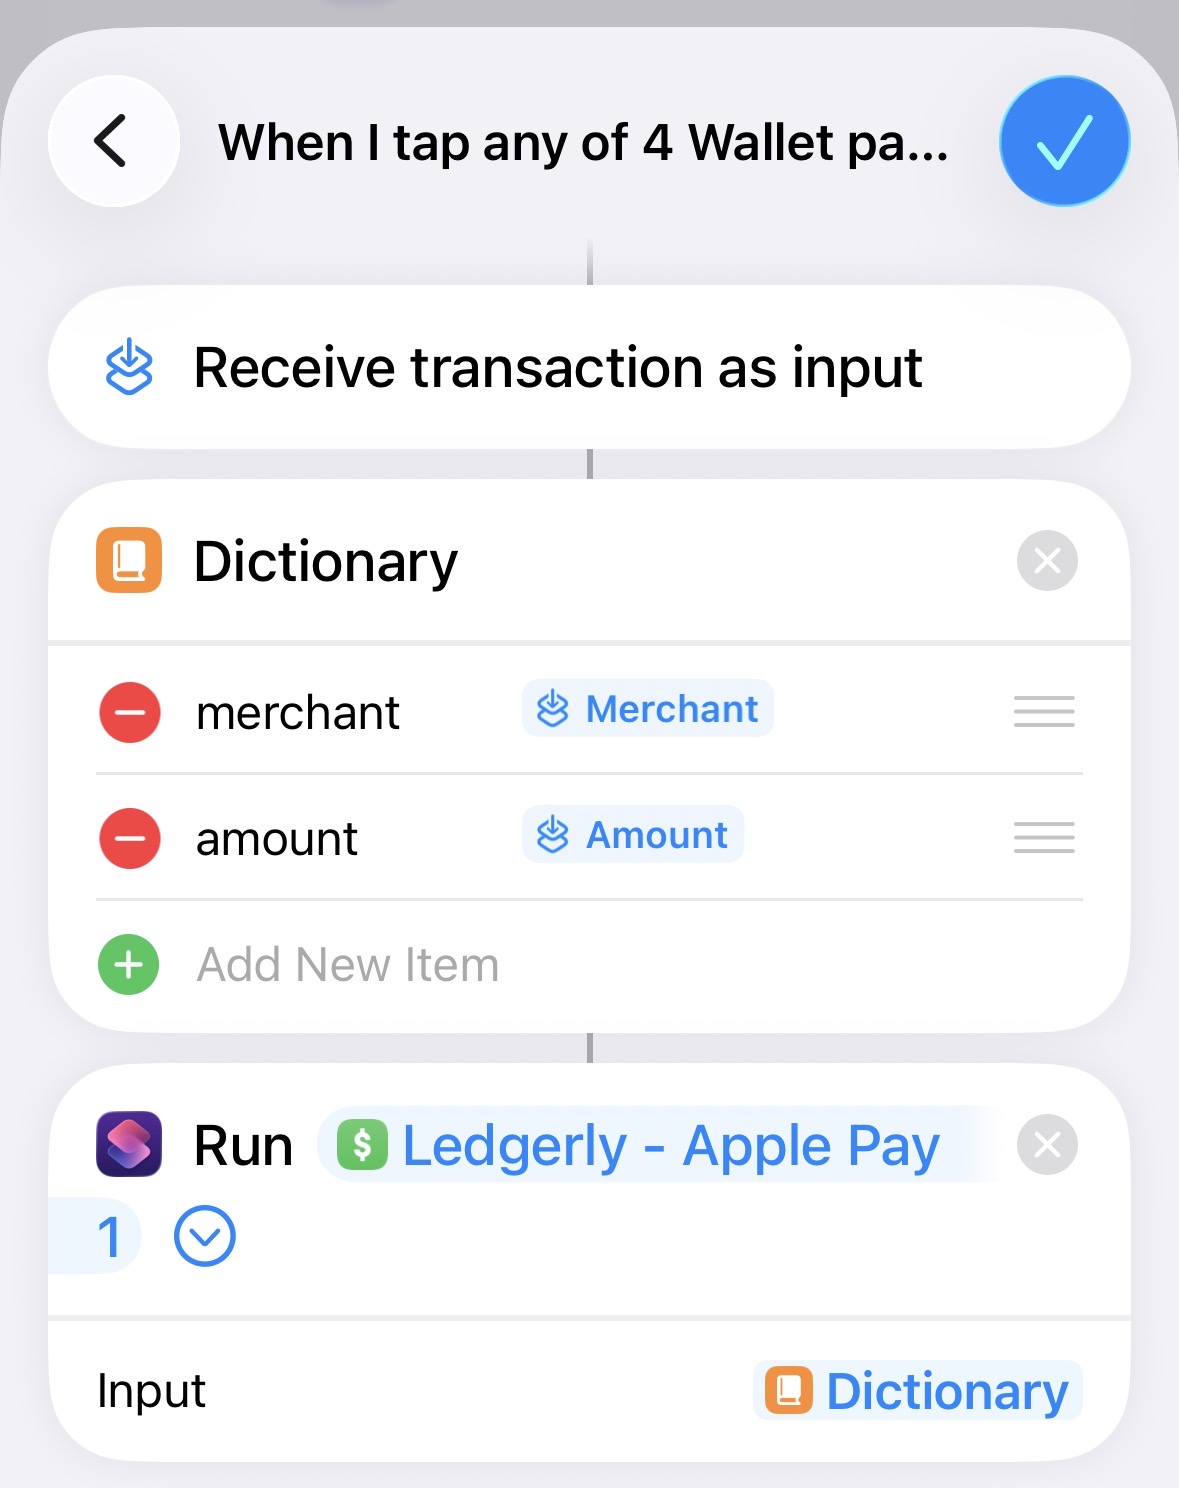
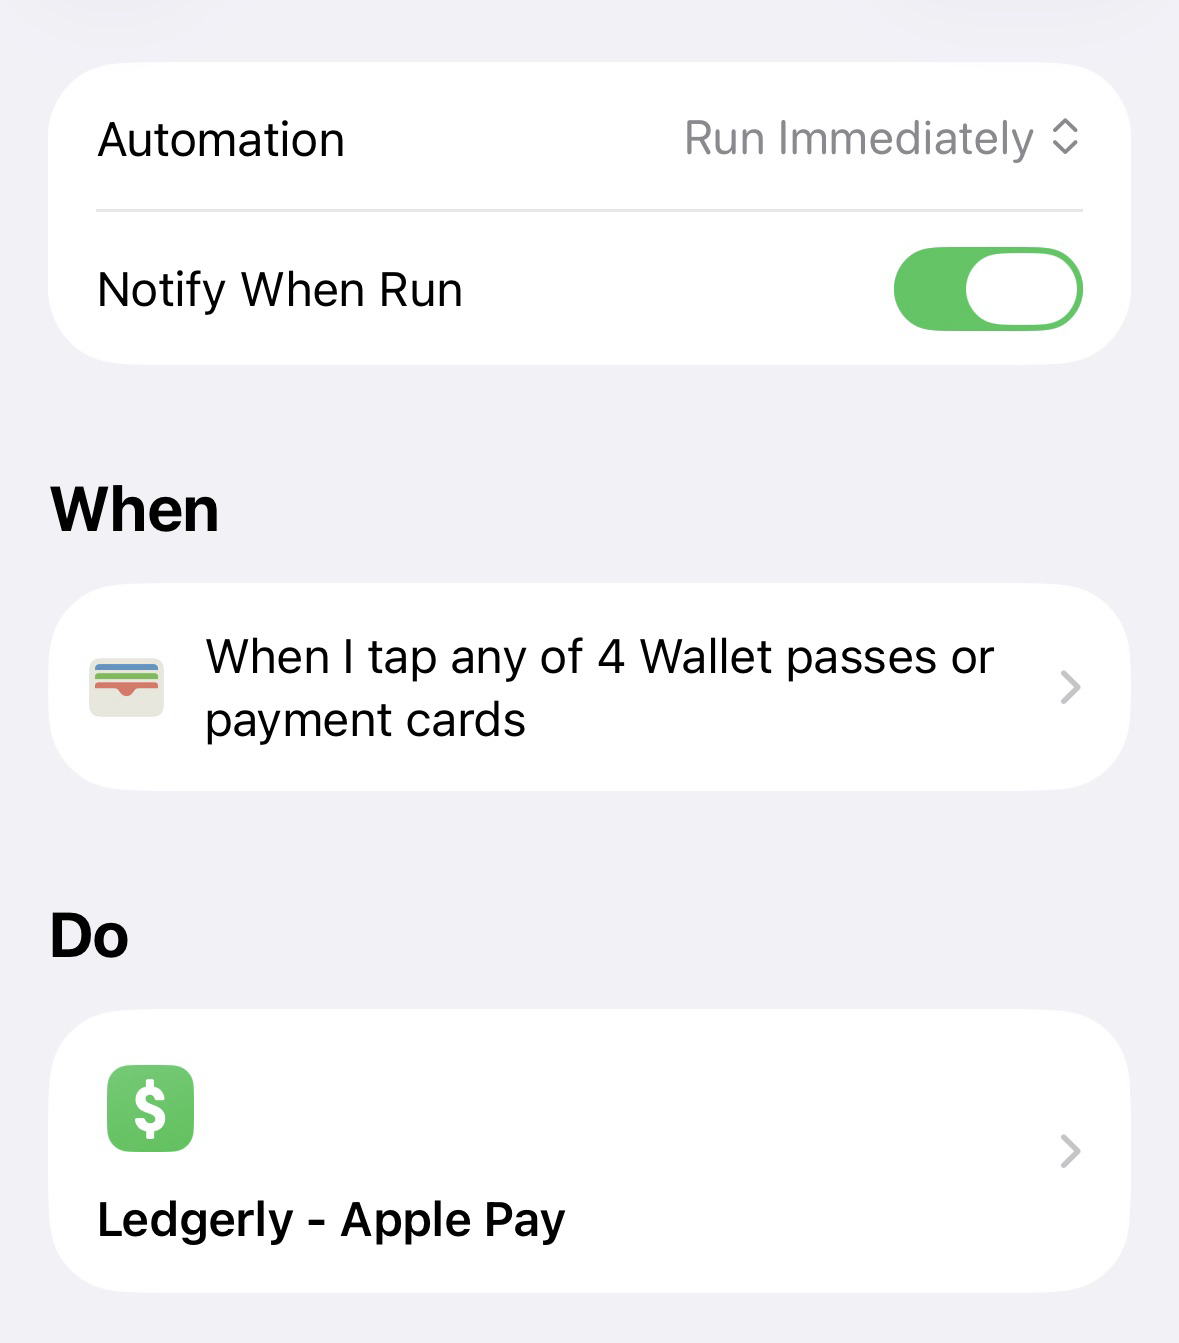
feat(integrations): simplify Wallet setup
What:
- Point Advanced settings to the new shared Apple Pay Shortcut.
- Remove the endpoint copy field because the Shortcut now embeds the API URL.
- Add the current Wallet automation reference screenshot and render the Wallet limitation as a note.
- Update English and Italian setup instructions for token-only setup and Run Immediately.

Why:
- The shared Shortcut needs only a personal token, reducing setup errors and matching the current Wallet automation flow.

Files:
- src/frontend/src/components/advanced-settings-card.tsx: simplify setup UI and render the centered reference image and note.
- src/frontend/public/images/iphone-wallet-automation.png: current Run Immediately Wallet automation screenshot.
- src/frontend/src/i18n/messages/en.json: English Apple Pay setup copy.
- src/frontend/src/i18n/messages/it.json: Italian Apple Pay setup copy.

Validation:
- bun --filter ledgerly-frontend lint: passed.
- bun --filter ledgerly-frontend test: 36 passed.
- bun --filter ledgerly-frontend build: passed.

diff --git a/src/frontend/src/components/advanced-settings-card.tsx b/src/frontend/src/components/advanced-settings-card.tsx
@@ -1,9 +1,10 @@
 "use client";
 
+import Image from "next/image";
 import { useState } from "react";
 import { useTranslations } from "next-intl";
 import { toast } from "sonner";
-import { BellRing, Copy, KeyRound, RotateCw, ShieldCheck, Smartphone, Trash2 } from "lucide-react";
+import { BellRing, Copy, Info, KeyRound, RotateCw, ShieldCheck, Smartphone, Trash2 } from "lucide-react";
 import { ConfirmDialog } from "@/components/confirm-dialog";
 import { Alert, AlertDescription, AlertTitle } from "@/components/ui/alert";
 import { Badge } from "@/components/ui/badge";
@@ -26,9 +27,7 @@ import {
 } from "@/hooks/use-notifications";
 import { formatDate } from "@/lib/format";
 
-const SHORTCUT_LINK = "https://www.icloud.com/shortcuts/a90eb7d1e7db4e79a00382b15e450102";
-const API_BASE_URL = (process.env.NEXT_PUBLIC_API_URL ?? "http://localhost:3001").replace(/\/+$/, "");
-const INTEGRATION_ENDPOINT = `${API_BASE_URL}/api/integrations/transactions`;
+const SHORTCUT_LINK = "https://www.icloud.com/shortcuts/e1bb4215d5114373974f736a2b266f8c";
 
 function CopyableValue({ label, value, success }: { label: string; value: string; success: string }) {
   const t = useTranslations("advanced");
@@ -225,7 +224,6 @@ export function AdvancedSettingsCard() {
             </div>
           </div>
           <CopyableValue label={t("shortcutLink")} value={SHORTCUT_LINK} success={t("shortcutCopied")} />
-          <CopyableValue label={t("apiEndpoint")} value={INTEGRATION_ENDPOINT} success={t("endpointCopied")} />
 
           {secret ? <OneTimeSecret secret={secret} onDismiss={() => setSecret(null)} /> : null}
           {requestFailed || status.isError ? (
@@ -270,7 +268,22 @@ export function AdvancedSettingsCard() {
             <li>{t("setupAutomation")}</li>
             <li>{t("setupRun")}</li>
           </ol>
-          <p className="text-xs leading-5 text-muted-foreground">{t("walletNote")}</p>
+          <figure className="mx-auto w-full max-w-[18rem]">
+            <Image
+              src="/images/iphone-wallet-automation.png"
+              alt={t("automationScreenshotAlt")}
+              width={1179}
+              height={1343}
+              sizes="(max-width: 640px) 72vw, 288px"
+              className="h-auto w-full rounded-lg border"
+            />
+            <figcaption className="mt-2 text-xs leading-5 text-muted-foreground">{t("automationScreenshotCaption")}</figcaption>
+          </figure>
+          <Alert className="border-primary/25 bg-muted/35">
+            <Info />
+            <AlertTitle>{t("walletNoteTitle")}</AlertTitle>
+            <AlertDescription>{t("walletNote")}</AlertDescription>
+          </Alert>
         </section>
         <Separator />
         <NotificationSettings />
